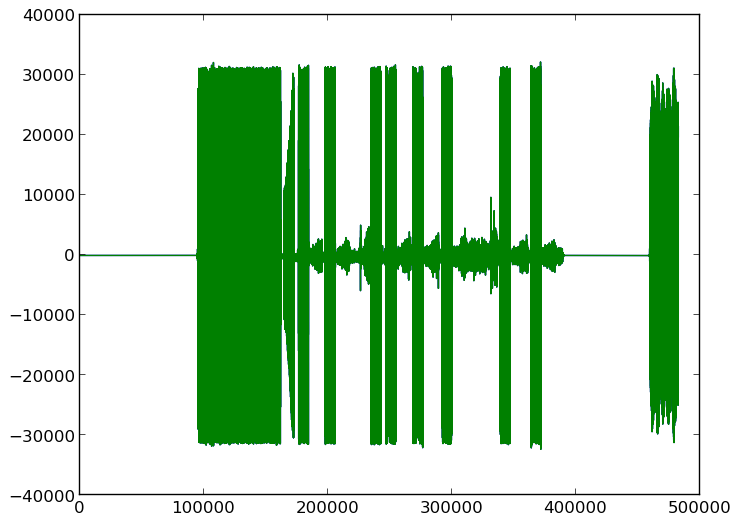
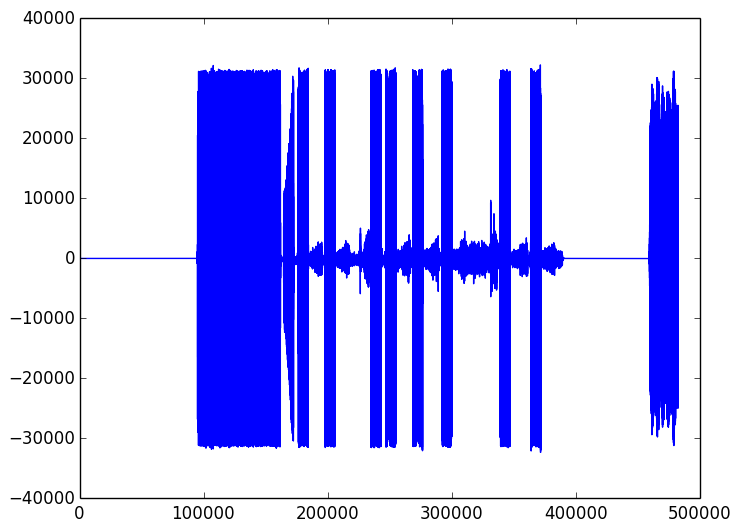
Late-night changes to the signal processing. Drop dat bass tho

Changed region(s): [[0.0, 0.0, 0.9946, 0.979]]

diff --git a/pytone.py b/pytone.py
@@ -3,9 +3,28 @@ from scipy.io import wavfile # get the api
 from scipy.fftpack import fft
 from pylab import *
 
+def max(arr):
+	maxval = arr[0];
+	for i, val in enumerate(arr):
+		if(val>maxval):
+			maxval = val;
+			index  = i;
+			
+	return (i,val);	
+
 
 def f(filename):
 	fs, data = wavfile.read(filename) # load the data
+	plt.plot(data.T[0]);
+	maxtimedomain = max(data.T[0])[1];
+	savefig('new'+filename+'.png',bbox_inches='tight');
+	
+	time_arr = [];
+	for i, val in enumerate(data.T[0]):
+		if(val>.5*maxtimedomain and data.T[0][i-100]>.5*maxtimedomain and data.T[0][i+100]>.5*maxtimedomain):
+			time_arr.append(i);
+	
+	print time_arr;
 	a = data.T[0] # this is a two channel soundtrack, I get the first track
 	b=[(ele/2**16.)*2-1 for ele in a] # this is 8-bit track, b is now normalized on [-1,1)
 	c = fft(b); # create a list of complex number
@@ -19,12 +38,10 @@ def f(filename):
 	plt.plot(frq,out,'r')
 	plt.ylim((0,50000))
 	savefig(filename+'.png',bbox_inches='tight')
-	max = 0;
-	for i in range(len(frq)):
-		if(out[i] > max):
-			max = frq[i];
+	maxi = max(frq)[1];
 			
-	print max;	
+	print maxi;
+
 		
 	
 	
